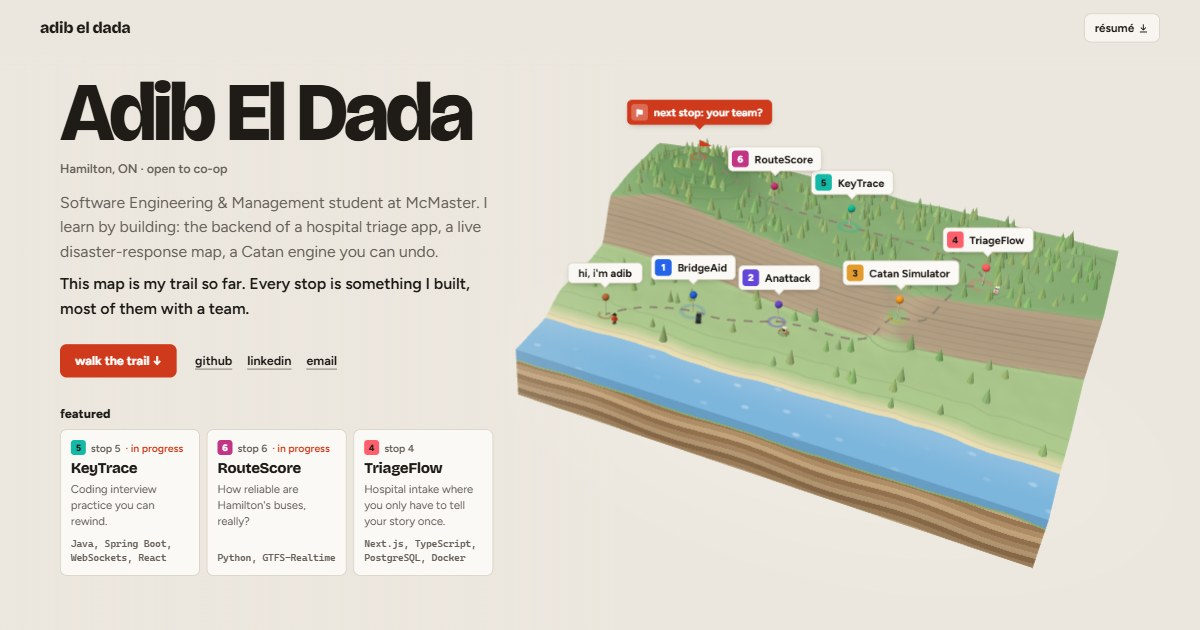
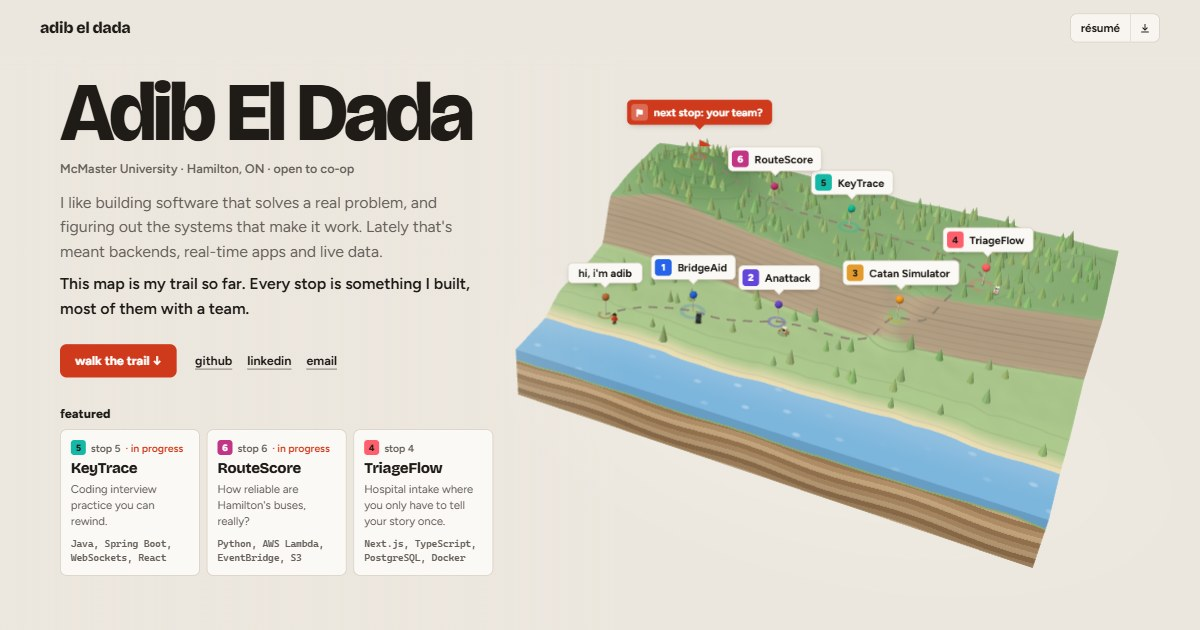
Rewrite the intro and update KeyTrace and RouteScore
- New intro line instead of "Software Engineering & Management student...
  I learn by building: ..."; McMaster moves to the line under the name.
- KeyTrace card: host role, PostgreSQL persistence, JUnit/Mockito and
  Testcontainers tests in GitHub Actions CI.
- RouteScore card: CDK-deployed Lambda saving the live feed to S3 every
  minute, and the step that labels arrivals early / on time / late.
- Retake the link preview image.

diff --git a/src/data/projects.ts b/src/data/projects.ts
@@ -115,17 +115,18 @@ export const projects: Project[] = [
 		context: 'Personal project',
 		when: 'Sep 2026 – now',
 		status: 'in progress',
-		working: 'Live shared editing in rooms you share by link, every edit recorded with a timestamp, a replay you can play, pause and scrub, and solo, interview and group modes.',
+		working: 'Live shared editing in rooms you join by link, a replay of every session, solo, interview and group modes with a host who runs the session, and rooms and recordings saved in PostgreSQL.',
 		icon: ['#14B8A6', '#5EEAD4'],
 		about:
 			'A web app for practicing coding interviews. You solve a problem in a shared code editor in the browser, alone or with a friend or tutor playing the interviewer. Every edit gets recorded, so afterwards you can replay the session and see where you got stuck, what you rewrote and how long each part took, like athletes reviewing game footage.',
 		mine: [
 			'Built the real-time core: a Spring Boot backend where each session is a room with its own random ID, and a WebSocket handler relays every edit to everyone in that room. The frontend is React + TypeScript around the Monaco editor (the one inside VS Code).',
-			'Every edit is saved as a timestamped snapshot of the code. Ending a session ends it for everyone and turns it into a replay you can play, pause and scrub through on a timeline.',
-			'Added three modes with their own player limits: solo, interview (2 people) and group (up to 10). A full room turns people away instead of breaking.',
-			'Next up: a host role, tests and CI, running code in sandboxed Docker containers, and saving sessions to PostgreSQL.',
+			'Every edit is saved as a timestamped snapshot of the code. When the host ends the session (only they can, using a private host token), it turns into a replay you can play, pause and scrub through. Solo, interview and group rooms each have their own player limit.',
+			'Rooms and recordings are saved in PostgreSQL (run with Docker Compose), so sessions survive a server restart. I moved the room logic into its own service and split the backend into packages.',
+			'Tested with JUnit and Mockito, plus integration tests against a real PostgreSQL database that Testcontainers starts up. GitHub Actions runs them all on every push.',
+			'Next up: running code in a sandboxed Docker container, built-in practice problems, accounts, and end-to-end tests with Playwright.',
 		],
-		stack: ['Java', 'Spring Boot', 'WebSockets', 'React', 'TypeScript', 'Monaco Editor'],
+		stack: ['Java', 'Spring Boot', 'WebSockets', 'React', 'TypeScript', 'PostgreSQL', 'Docker', 'JUnit', 'Testcontainers', 'GitHub Actions'],
 		github: 'https://github.com/adibeldada/KeyTrace',
 	},
 	{
@@ -136,16 +137,16 @@ export const projects: Project[] = [
 		context: 'Personal project',
 		when: 'Sep 2026 – now',
 		status: 'in progress',
-		working: "A Python script that pulls the HSR's live GTFS-Realtime feed. The tracking, stats and dashboard come next.",
+		working: 'A Lambda that saves the live HSR feed to S3 every minute, and a step that turns those snapshots into arrivals labelled early, on time or late. Per-route stats and the dashboard come next.',
 		icon: ['#C13584', '#F28CCB'],
 		about:
-			"A tracker for how reliable Hamilton's HSR buses actually are. Every minute it'll pull the city's live bus data and compare where each bus is against where the schedule says it should be. Over time that adds up to a reliability history for every route, stop and hour of the day, so you can see how often your bus runs late at rush hour. It'll also catch \"ghost buses\", trips that were scheduled but never showed up.",
+			"A tracker for how reliable Hamilton's HSR buses actually are. Every minute it saves the city's live bus data, then works out when each bus really reached each stop and compares that to the schedule. Over time that adds up to a reliability history for every route, stop and hour of the day, so you can see how often your bus runs late at rush hour. Later it'll also catch \"ghost buses\", trips that were scheduled but never showed up.",
 		mine: [
-			"Started with the data: a Python script that pulls the City of Hamilton's live GTFS-Realtime feed, the open data stream of trip updates the HSR publishes.",
-			'Planned it as small AWS pieces: a Lambda that runs every minute (EventBridge), raw snapshots in S3, delays and stats in DynamoDB, and email alerts through SNS, all set up in code with AWS CDK.',
-			"Next up: saving a snapshot every minute, matching live trips to the schedule, and scoring each arrival with the city's own rule (no more than 2 minutes early or 5 late).",
+			"Set up the pipeline on AWS in code with CDK (Python): a Lambda that EventBridge runs every minute downloads the city's live GTFS-Realtime feed, decodes it and saves a compressed snapshot to S3.",
+			"Wrote the processing step: from a run of snapshots it finds each bus's final arrival at each stop, works out how early or late it was, labels it with the city's on-time rule (no more than 2 minutes early or 5 late) and saves the results back to S3 as JSON Lines.",
+			'Next up: on-time % by route, stop and hour of day stored in DynamoDB, a public dashboard, ghost-bus detection, and tests with pytest and moto.',
 		],
-		stack: ['Python', 'GTFS-Realtime'],
+		stack: ['Python', 'AWS Lambda', 'EventBridge', 'S3', 'AWS CDK', 'GTFS-Realtime'],
 		github: 'https://github.com/adibeldada/RouteScore',
 	},
 ];
